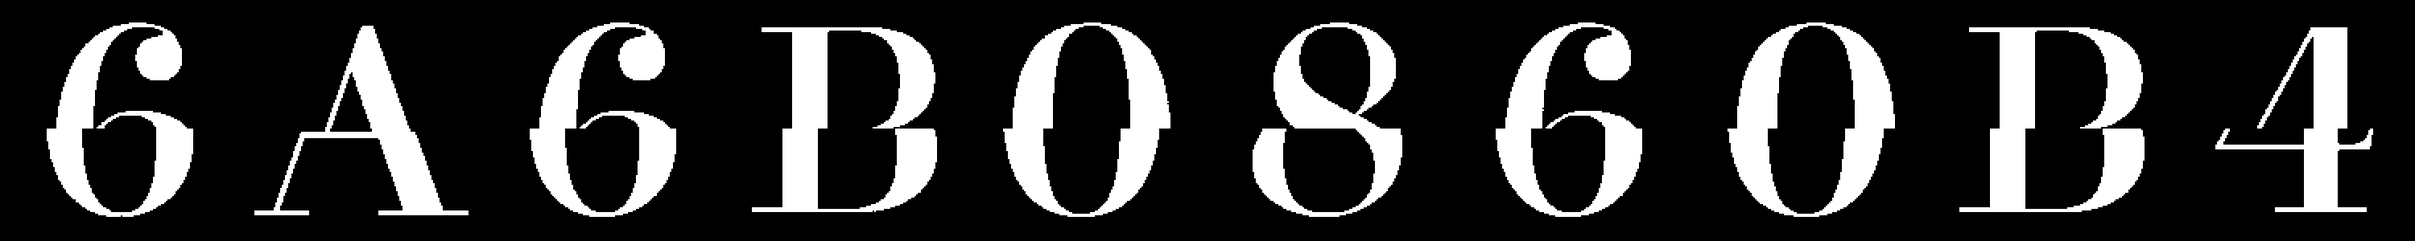
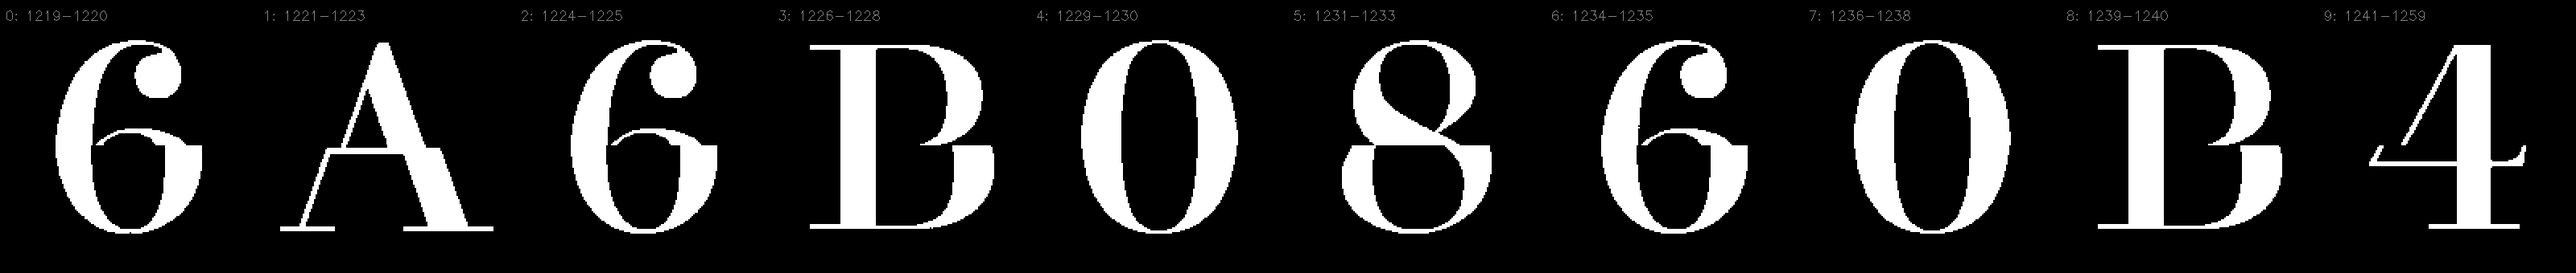
Use the better Part 1 figure, and fix the Part 2 cell labels
Replaces the Part 1 strip with the version carrying per-glyph frame ranges,
1219-1220 through 1241-1259, so any character can be checked against the source
footage. It also shows all ten characters rather than the nine of an earlier
reading.

The Part 2 cell figure had its labels rendered sideways and drifting off the
cells they named. tools/figure_part2_cells.py regenerates it from the stored
join: labels upright in their own gutter, vertically centred on their cell,
boundaries drawn at the six equal divisions.

The figure is now reproducible from a script in the repository rather than being
an image of unknown origin, which is the same rule applied to every other number
here.

diff --git a/puzzles/crypto-puzzles-2018-p2/tools/figure_part2_cells.py b/puzzles/crypto-puzzles-2018-p2/tools/figure_part2_cells.py
@@ -1,0 +1,91 @@
+#!/usr/bin/env python3
+"""Draw the Part 2 column divided into its six equal cells, with upright labels.
+
+The reading of the Part 2 column is `723504`. It does not come from viewing the
+characters upright, because they sit rotated relative to the strip and no
+rotation of the strip corrects that. It comes from dividing the joined column
+into six EQUAL cells, which is a check rather than a fit: the divisions are set
+by arithmetic on the strip height, not placed to suit the ink.
+
+This figure shows that division. Each cell is tinted, the boundaries are drawn,
+and each cell is labelled with its character. Labels are upright and centred on
+their own cell, so a reader can confirm which glyph each label refers to.
+
+Input is the joined column produced by `reconstruct_puzzle2_part2_exact.py` and
+stored at `sources/reconstructions/part2-column-as-joined.png`.
+
+Usage:
+    python3 tools/figure_part2_cells.py
+"""
+from __future__ import annotations
+
+from pathlib import Path
+
+from PIL import Image, ImageDraw, ImageFont
+
+ROOT = Path(__file__).resolve().parent.parent
+SRC = ROOT / "sources" / "reconstructions" / "part2-column-as-joined.png"
+OUT = ROOT / "sources" / "reconstructions" / "part2-six-cells-labelled.png"
+
+READING = "723504"
+TINTS = [
+    (214, 92, 92), (214, 156, 66), (92, 176, 110),
+    (74, 164, 196), (104, 112, 200), (176, 96, 184),
+]
+GUTTER = 150
+
+
+def load_font(size: int):
+    for name in ("DejaVuSans-Bold.ttf", "Arial Bold.ttf", "Arial.ttf",
+                 "/System/Library/Fonts/Supplemental/Arial Bold.ttf"):
+        try:
+            return ImageFont.truetype(name, size)
+        except OSError:
+            continue
+    return ImageFont.load_default()
+
+
+def main() -> None:
+    mask = Image.open(SRC).convert("L")
+    width, height = mask.size
+    cells = len(READING)
+    step = height / cells
+
+    canvas = Image.new("RGB", (width + GUTTER, height), (0, 0, 0))
+    pixels = mask.load()
+    out = canvas.load()
+
+    # Tint the ink of each cell with that cell's colour.
+    for y in range(height):
+        tint = TINTS[min(int(y // step), cells - 1)]
+        for x in range(width):
+            value = pixels[x, y]
+            if value:
+                scale = value / 255
+                out[x + GUTTER, y] = tuple(int(c * scale) for c in tint)
+
+    draw = ImageDraw.Draw(canvas)
+    font = load_font(96)
+
+    for index, char in enumerate(READING):
+        top = index * step
+        bottom = (index + 1) * step
+        if index:
+            draw.line([(GUTTER, top), (width + GUTTER, top)],
+                      fill=(90, 90, 90), width=2)
+        # Label upright, vertically centred on its own cell.
+        box = draw.textbbox((0, 0), char, font=font)
+        text_w = box[2] - box[0]
+        text_h = box[3] - box[1]
+        x = (GUTTER - text_w) / 2 - box[0]
+        y = top + (step - text_h) / 2 - box[1]
+        draw.text((x, y), char, font=font, fill=TINTS[index])
+
+    draw.line([(GUTTER, 0), (GUTTER, height)], fill=(60, 60, 60), width=2)
+    canvas.save(OUT)
+    print(f"wrote {OUT.relative_to(ROOT)}  {canvas.size[0]}x{canvas.size[1]}")
+    print(f"cell height {step:.2f} px, {cells} equal cells over {height} px")
+
+
+if __name__ == "__main__":
+    main()

diff --git a/puzzles/crypto-puzzles-2018-p2/sources/reconstructions/README.md b/puzzles/crypto-puzzles-2018-p2/sources/reconstructions/README.md
@@ -9,6 +9,10 @@ decoded source text.
 
 The ten Part 1 characters, `6A6B0860B4`, upright and left to right.
 
+Each glyph is labelled with the frame range it was read from, running 1219-1220
+through 1241-1259, so a reader can go back to the source footage and check any
+one of them.
+
 Produced from the video by reading each temporal state at its own frame window,
 cropping the glyph mask, and scaling each to a common box with nearest-neighbour
 interpolation. The clean appearance comes from that upscaling of a well-formed
@@ -33,9 +37,14 @@ it comes out in.
 
 ## `part2-six-cells-labelled.png`
 
-The same 491-pixel strip divided into six equal cells, each outlined and
-labelled, giving `723504`. The division is into equal cells, not fitted to the
-ink, which is what makes the segmentation a check rather than an assumption.
+The same strip divided into six equal cells, each tinted and labelled, giving
+`723504`. The division is into equal cells, set by arithmetic on the strip
+height rather than placed to suit the ink, which is what makes the segmentation
+a check rather than an assumption.
+
+Regenerate it with `python3 tools/figure_part2_cells.py`. Labels sit upright in
+their own gutter, vertically centred on the cell they name, so it is
+unambiguous which glyph each label refers to.
 
 An independent extraction from a different codec reproduces the underlying mask
 at about 99.54 percent of binary pixels.
